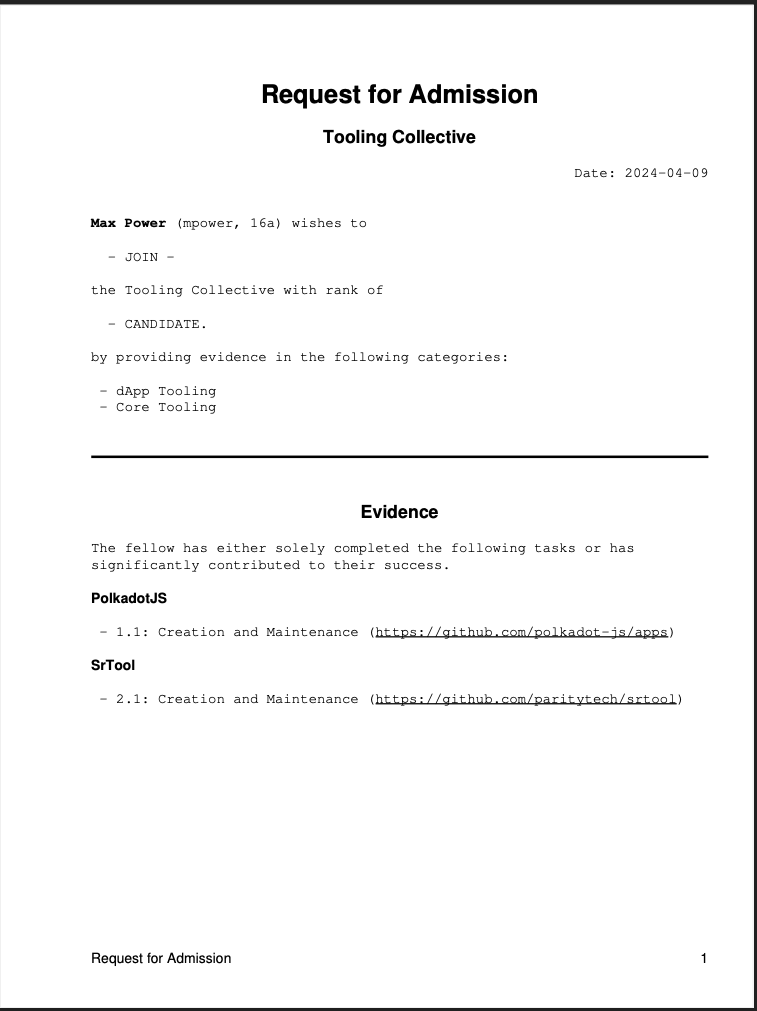
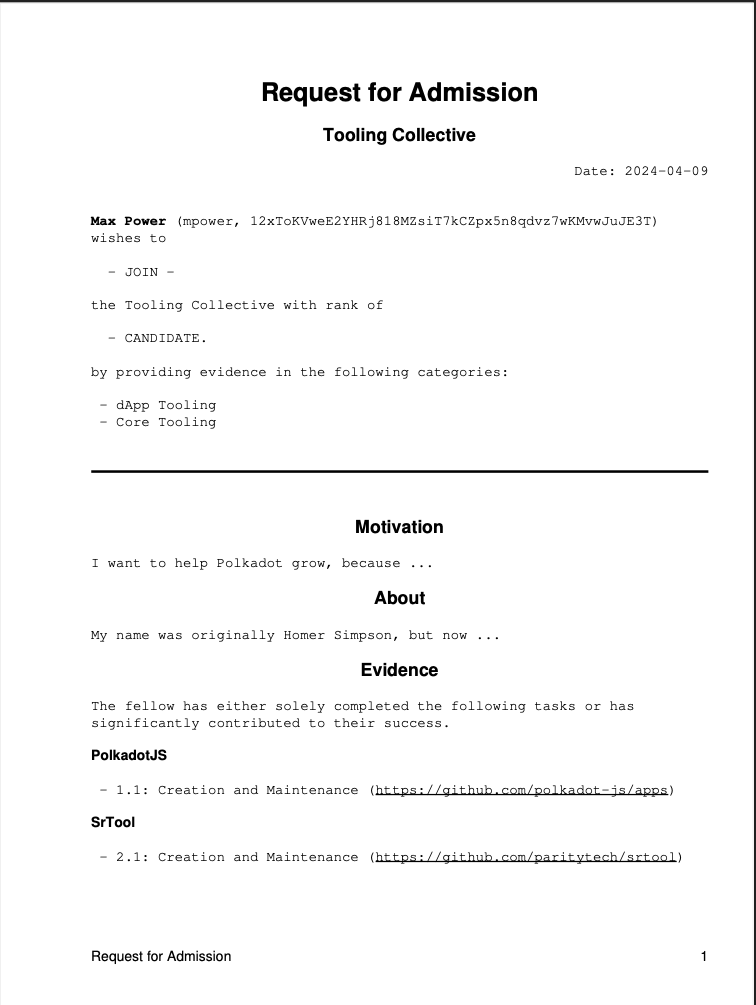
Fixup example join request

diff --git a/example/join_request.html b/example/join_request.html
@@ -18,14 +18,13 @@
 
 
 
-
 <center><h1>Request for Admission</h1></center>
 <center><h3>Tooling Collective</h3></center>
 <div class="space"></div>
 <div align="right">Date: 2024-04-09</div>
 <br>
 <center></centeR>
-<strong>Max Power</strong> (mpower, 16a) wishes to
+<strong>Max Power</strong> (mpower, 12xToKVweE2YHRj818MZsiT7kCZpx5n8qdvz7wKMvwJuJE3T) wishes to
 <div class="big"></div>
 &nbsp;&nbsp;- JOIN -
 <div class="big"></div>
@@ -45,6 +44,14 @@ by providing evidence in the following categories:
 <br><br>
 <hr>
 <br>
+
+<center><h3>Motivation</h3></center>
+
+I want to help Polkadot grow, because ...
+
+<center><h3>About</h3></center>
+
+My name was originally Homer Simpson, but now ...
 
 <center><h3>Evidence</h3></center>
 
